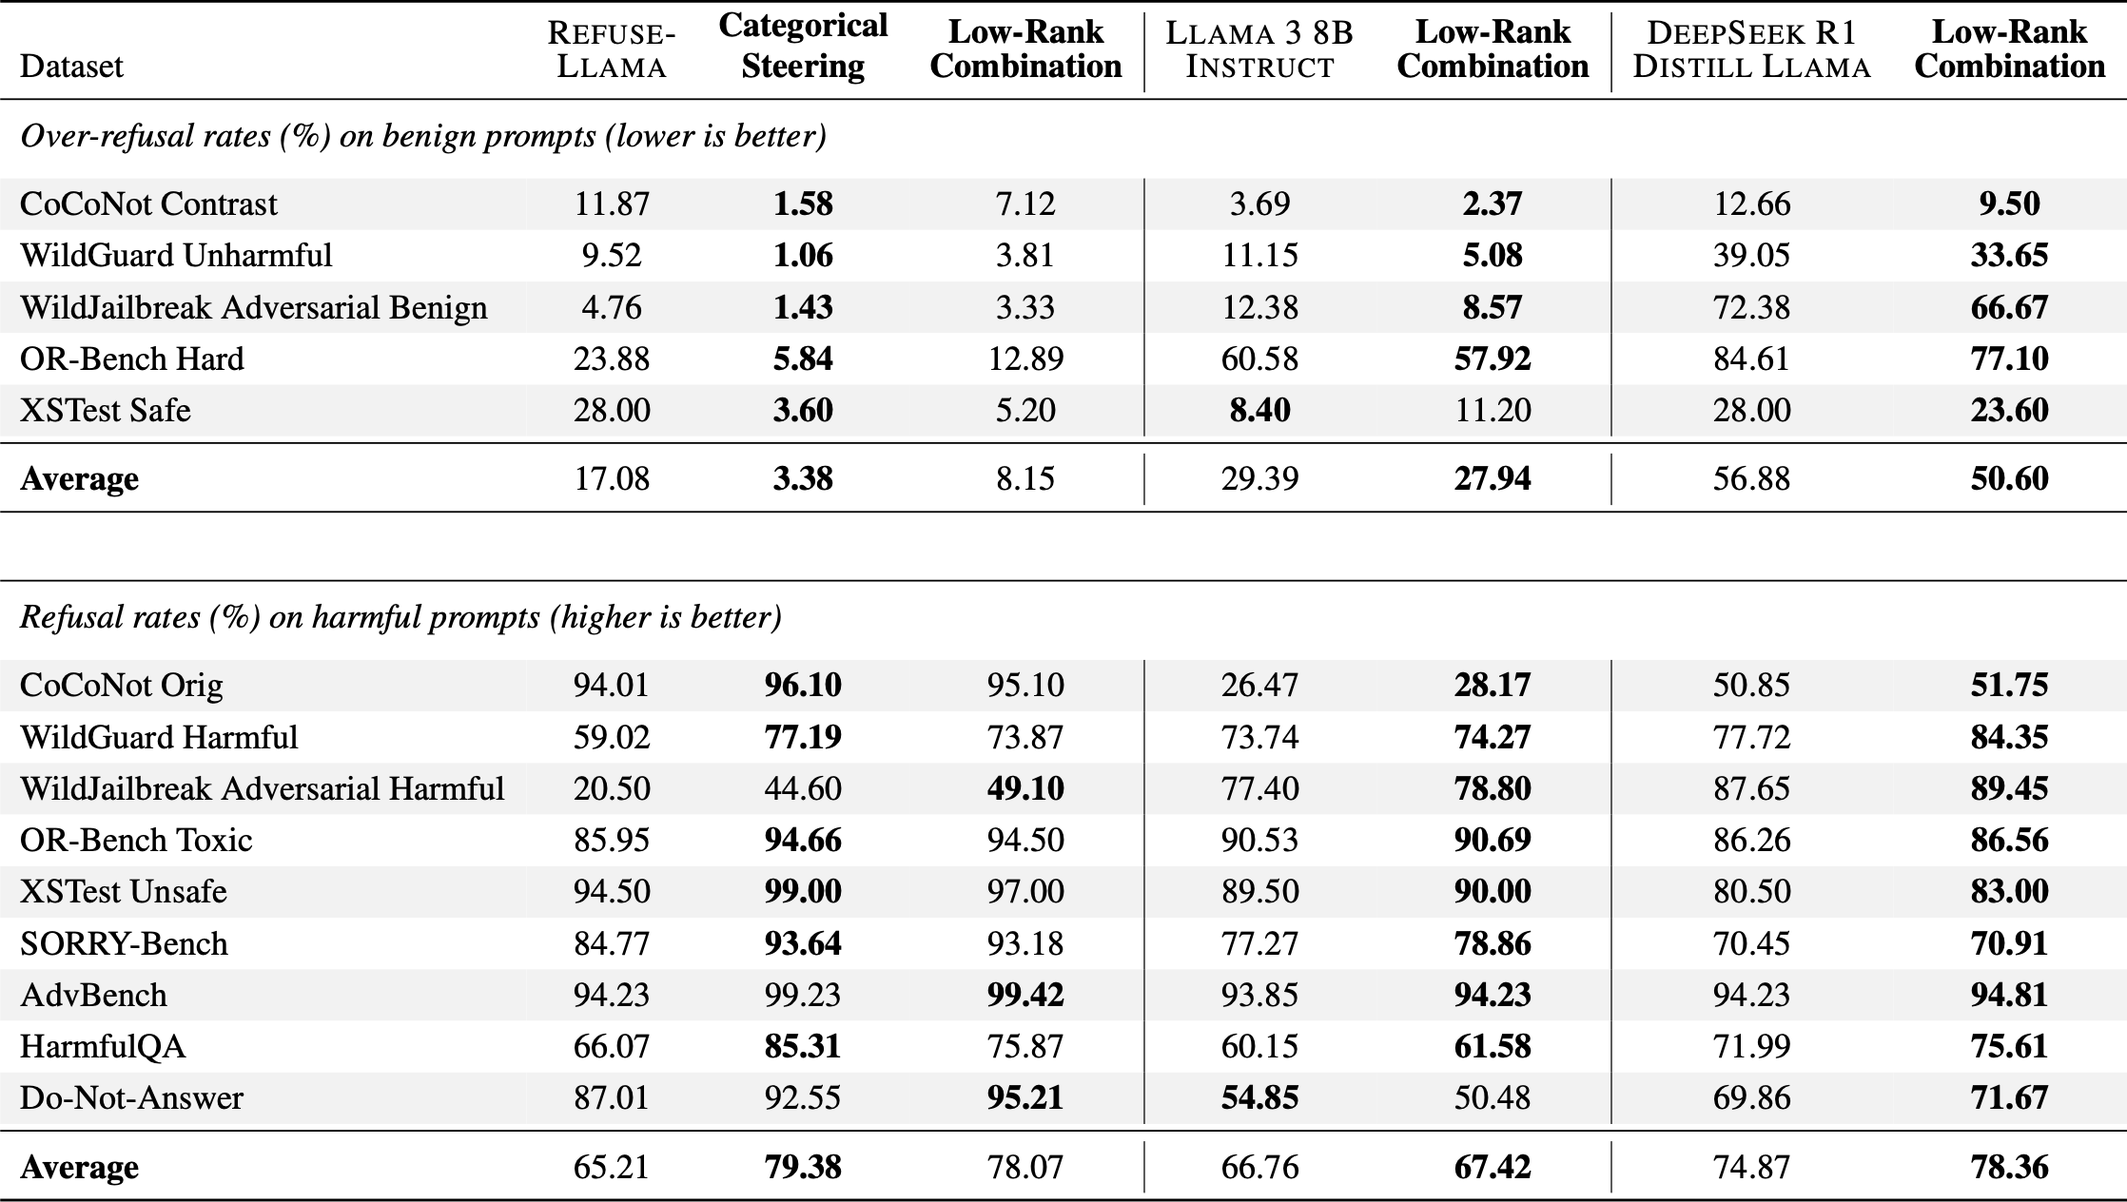
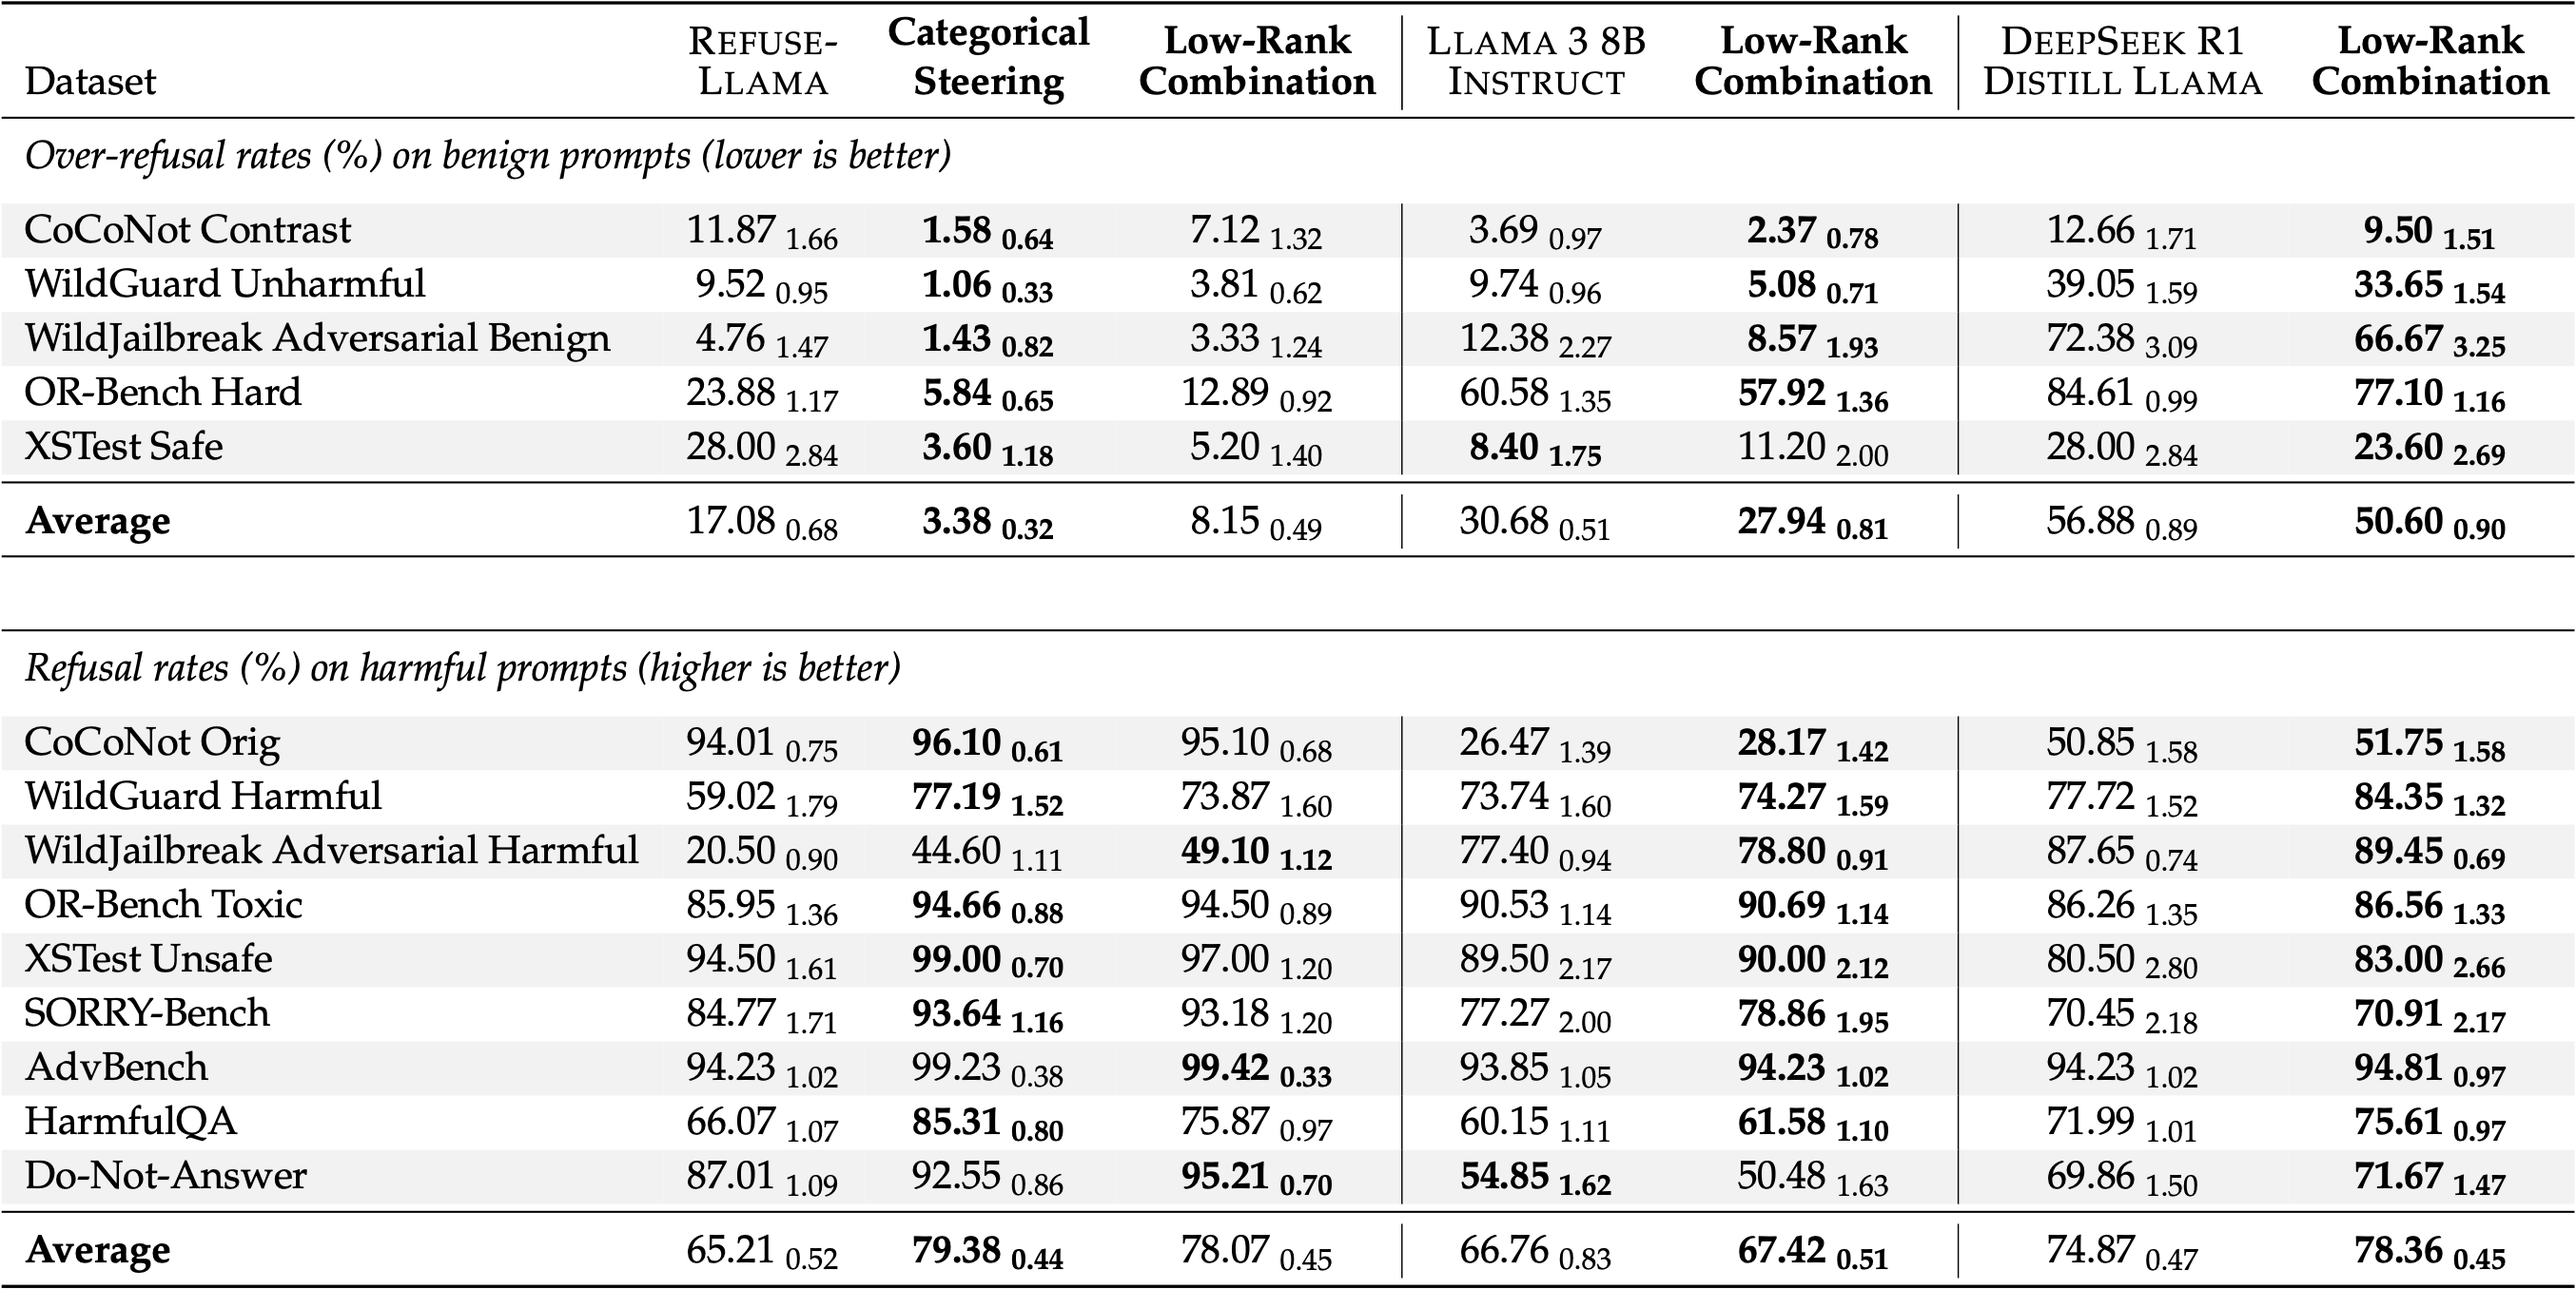
new fixes and improvements

diff --git a/scripts/eval.py b/scripts/eval.py
@@ -2,6 +2,7 @@ import json
 from typing import Callable
 from collections import defaultdict
 from tqdm.auto import tqdm
+import numpy as np
 import pandas as pd
 import torch
 import torch.nn as nn
@@ -481,6 +482,11 @@ def score_refusal_token(
                 break
 
     return num_refusal
+
+
+def compute_standard_error_proportion(correct: int, total: int) -> float:
+    p = correct / total
+    return 100.0 * np.sqrt(p * (1 - p) / total)
 
 
 def steering_evaluation_layer_sweep(

diff --git a/refusal_tradeoff_plot.py b/refusal_tradeoff_plot.py
@@ -81,7 +81,7 @@ def plot_refusal_tradeoff(
 
 if __name__ == "__main__":
     points = [
-        ("LLama 3 8B Instruct", 29.3909, 66.7611),
+        ("LLama 3 8B Instruct", 30.6800, 66.7611),
         ("Refuse-Llama", 17.0802, 65.2143),
         ("(Ours) Refuse-Llama\n+ Categorical Steering", 3.3838, 79.3836),
         ("(Ours) Refuse-Llama\n+ Low-rank Combination", 8.1534, 78.0729),
